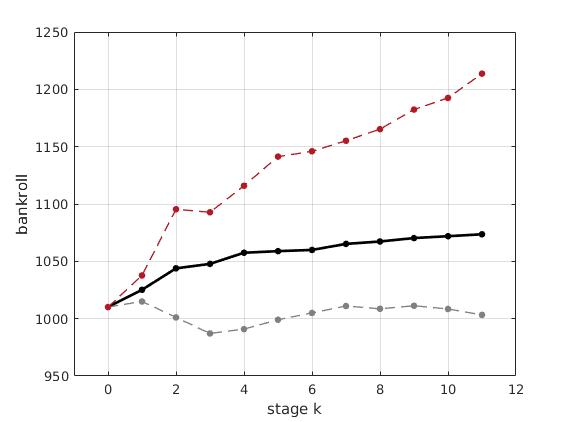
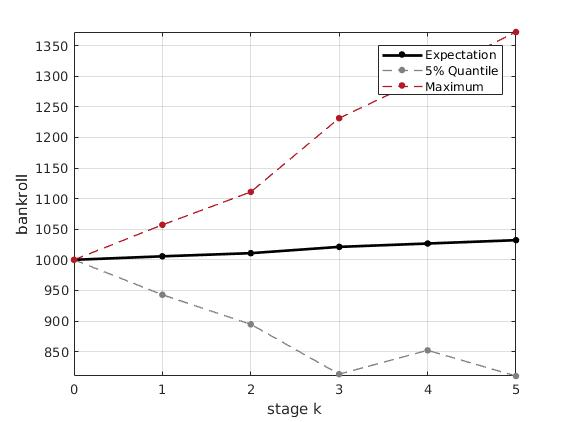
:hammer: betting example updated

diff --git a/matlab/examples/xmpl_betting.m b/matlab/examples/xmpl_betting.m
@@ -9,7 +9,7 @@ cAlpha = 0.05;   % risk aversion against ruin
 ruin = 800;      % amount that is considered to be ruin
 alpha = 0.95;    % risk aversion in betting
 p = 0.55;        % probability to win
-N = 12;          % prediction horizon
+N = 6;          % prediction horizon
 %% Construct scenario tree;
 prob_dist = [p, 1-p];
 tree_options.horizonLength = N;
@@ -53,9 +53,13 @@ disp(solution);
 figure(1);
 subplot(211); solution.plotInputCoordinate(1)
 h = gca; set(h,'yscale','log')
+ylabel('bet')
 subplot(212); solution.plotStateCoordinate(1)
 h = gca; set(h,'yscale','log')
+ylabel('bankroll')
 %%
 figure(2);
 fx = marietta.functions.MarkovianLinearStateInputFunction({1, 1}, {0,0}, {0,0});
 solution.plotFunctionErrorBar(fx, 0.95)
+ylabel('bankroll')
+legend('Expectation', '5% Quantile', 'Maximum');

diff --git a/matlab/examples/xmpl_betting.md b/matlab/examples/xmpl_betting.md
@@ -91,6 +91,8 @@ subplot(212); solution.plotStateCoordinate(1)
 h = gca; set(h,'yscale','log')
 ```
 
+![bankroll progress](figures/xmpl_betting_bankroll_xu.jpg)
+
 and 
 
 ```
